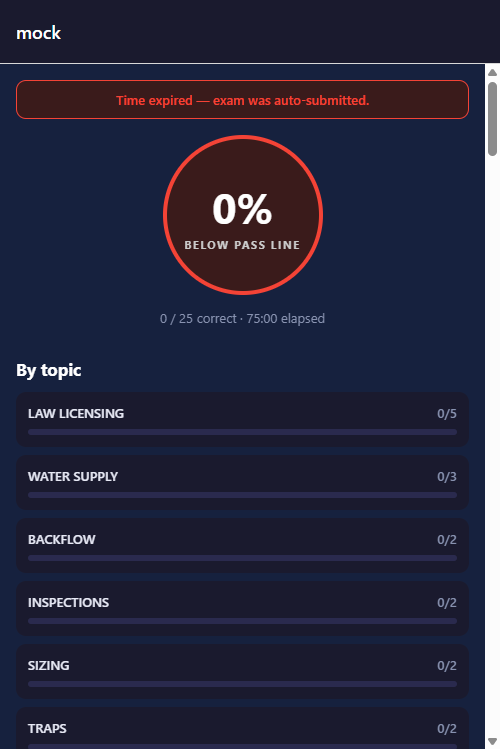
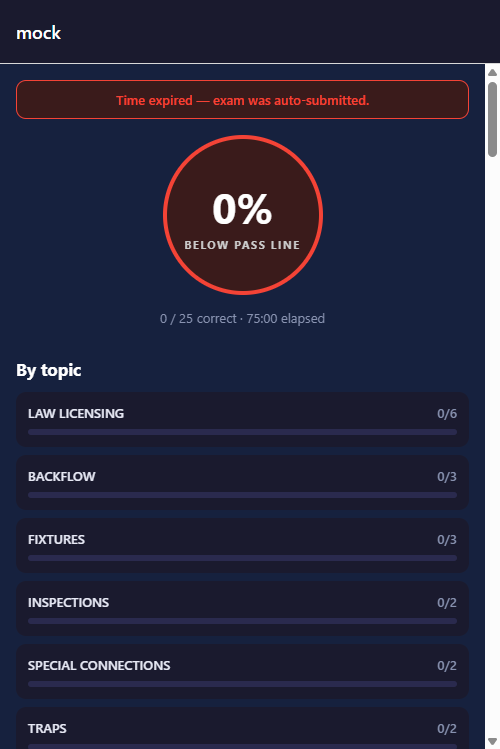
Artifact-level auto-submit proof (final machine gate): an untouched 25-Q exam left to run to zero against the EXPORTED static build auto-submits at 75:00 (301 clean polls, 'Time expired - exam was auto-submitted.', DB session row closed at 75.0 min) - the last machine gate is now proven on the shipp

Changed region(s): [[0.06, 0.8598, 0.33, 0.9212], [0.06, 0.6142, 0.24, 0.6449], [0.06, 0.7063, 0.21, 0.737]]

diff --git a/tasks/PHASE-CHECKLIST.md b/tasks/PHASE-CHECKLIST.md
@@ -101,17 +101,20 @@ on BOTH servers. Remaining: owner's §C*
 web click-through (http://localhost:8081), C2 phone re-test both devices,
 "feels done", EAS handoff.
 
-**Round 23 (this round, `f53aa74`):** the shipped-artifact claim that round
-22 left open is now closed — the ENTIRE 30-gate click-through (home/seed,
-full mock cycle incl. 50-Q scaling, drill + bookmark + note, persistence
-across reload, missed, topics tap-to-drill, code search/star, fill-blank
+**Round 23 (this round, `f53aa74`): the SHIPPED-ARTIFACT claim that round
+22 left open is closed — and its final piece (the artifact auto-submit)
+landed this round.** The ENTIRE 30-gate click-through (home/seed, full mock
+cycle incl. 50-Q scaling, drill + bookmark + note, persistence across
+reload, missed, topics tap-to-drill, code search/star, fill-blank
 normalized match) passed **against the exported static build itself**
-(`E2E_BASE` → static-web on :8090; evidence `art-*.png`), so the dev server
-and the deployable artifact are now proven identically end-to-end. A final
-untouched 75-min auto-submit on the same artifact is in flight (lesson 16:
-prove the artifact, not just the dev server). Prior history: P4 consistency
-audit (`73e5c31`), Metro zombie-proofing (round 18), static-export artifact
-proven standalone (round 21, Load-again everywhere).
+(`E2E_BASE` → static-web on :8090; evidence `art-*.png`), and an untouched
+25-Q exam left to run to zero on **that same exported build** auto-submitted
+at 75:00 (301 polls, "Time expired — exam was auto-submitted.", DB session
+row closed at 75.0 min). The dev server and the deployable artifact are now
+proven identical end-to-end (lesson 16: prove the shipped artifact, not
+just the dev server). Prior history: P4 consistency audit (`73e5c31`),
+Metro zombie-proofing (round 18), static-export artifact proven standalone
+(round 21, Load-again everywhere).
 
 **P4 consistency audit (round 17, `73e5c31`):**
 - **`verified=1` in every study-fetch path.** Re-verified all 7 question fetches

diff --git a/tasks/todo.md b/tasks/todo.md
@@ -107,8 +107,9 @@ Expo + React Native + TypeScript
   click-through also passed against the exported static build itself**
   (`E2E_BASE` → static-web on :8090, evidence `art-*.png`), not only Metro —
   so the deployable artifact and the dev server are proven identically
-  end-to-end (lesson 16); a final untouched 75-min auto-submit on the same
-  artifact is being collected as the last machine gate. Remaining:
+  end-to-end (lesson 16); the final untouched 75-min auto-submit on the
+  same exported artifact has PASSED (301 polls, "Time expired — exam was
+  auto-submitted.", DB row closed at 75.0 min). Remaining:
   owner's §C* web click-through (http://localhost:8081),
   C2 phone re-test both devices, "feels done" sign-off, EAS production
   handoff.

diff --git a/tasks/PHONE-ONBOARDING.md b/tasks/PHONE-ONBOARDING.md
@@ -98,7 +98,9 @@ web OPFS fix). Gate: same behavior as the phone test, no phone involved.
 > search/star, fill-blank) has been run against the *exported static build*
 > itself (evidence `art-*.png`) — not only the Metro dev server — so what you
 > do in your browser is what ships. An untouched 25-Q exam left to run to
-> zero on that build re-confirms the 75:00 auto-submit.
+> zero on that same exported build re-confirms the 75:00 auto-submit: 301
+> clean polls, "Time expired — exam was auto-submitted.", DB session row
+> closed at 75.0 min (2026-08-24, final-tree export).
 
 1. **Home** loads (no spinner stuck), shows your 41-question bank + streak
    stats.
